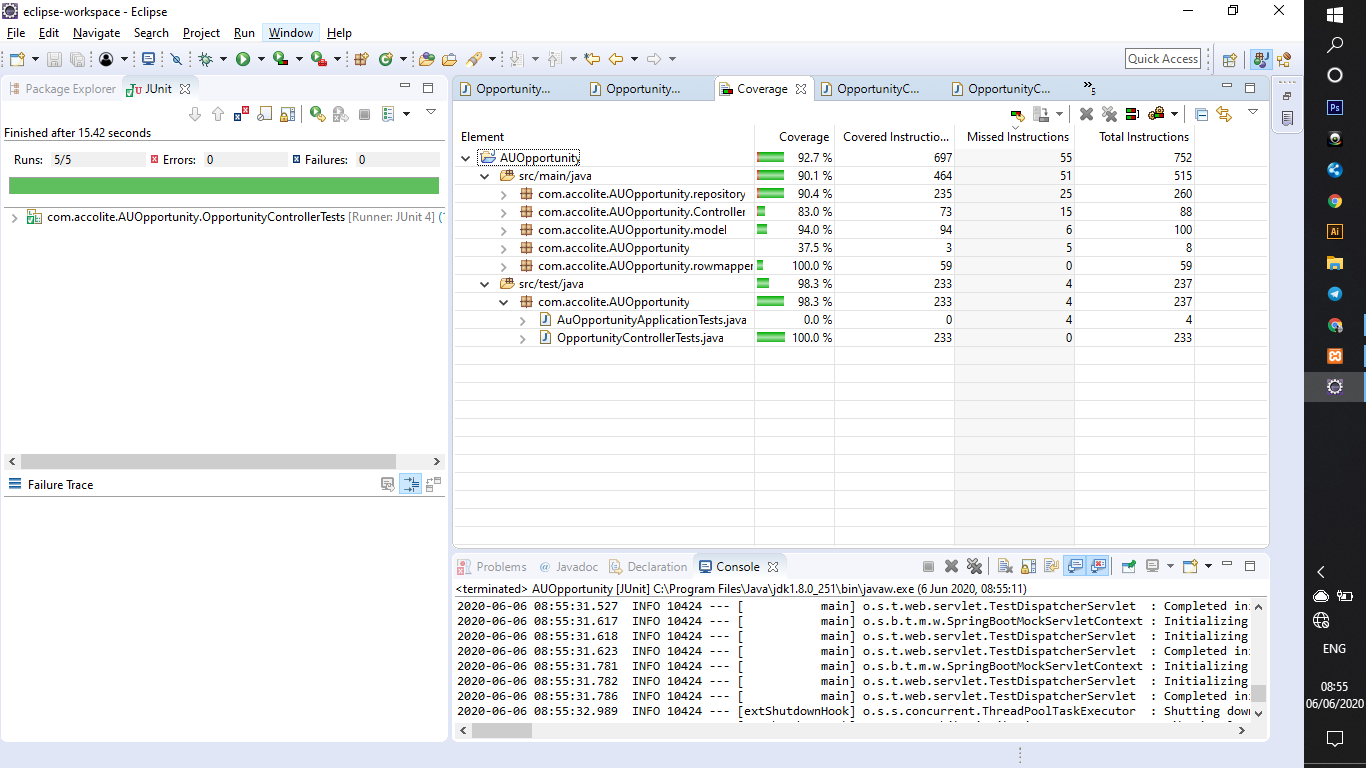
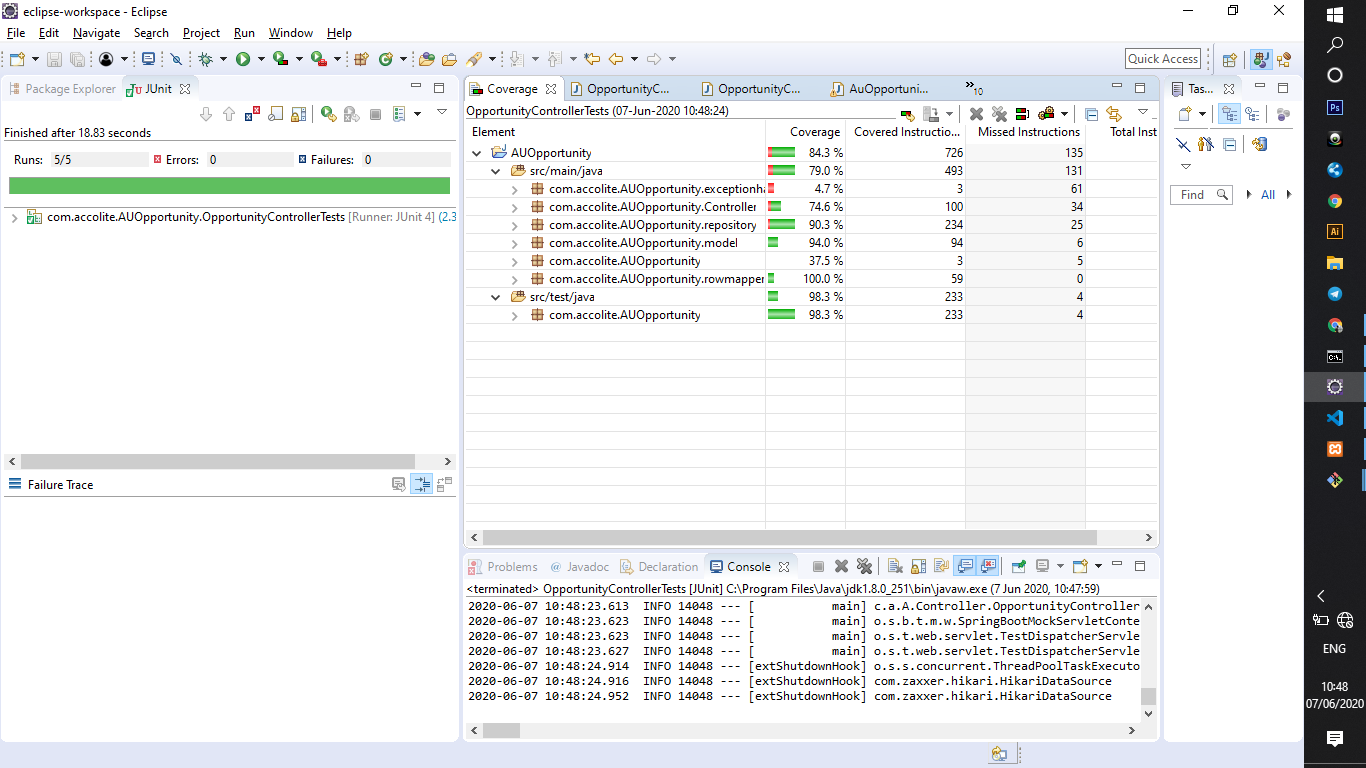
updated error handler  code coverage in angular

diff --git a/Springboot/AUOpportunity/src/main/java/com/accolite/AUOpportunity/Controller/OpportunityController.java b/Springboot/AUOpportunity/src/main/java/com/accolite/AUOpportunity/Controller/OpportunityController.java
@@ -3,7 +3,10 @@ package com.accolite.AUOpportunity.Controller;
 import java.sql.Timestamp;
 import java.util.List;
 
+
+
 import org.springframework.beans.factory.annotation.Autowired;
+import org.springframework.dao.EmptyResultDataAccessException;
 import org.springframework.web.bind.annotation.CrossOrigin;
 import org.springframework.web.bind.annotation.DeleteMapping;
 import org.springframework.web.bind.annotation.GetMapping;
@@ -14,74 +17,111 @@ import org.springframework.web.bind.annotation.RequestBody;
 import org.springframework.web.bind.annotation.ResponseBody;
 import org.springframework.web.bind.annotation.RestController;
 
+import com.accolite.AUOpportunity.exceptionhandler.OpportunityNotFoundException;
+import com.accolite.AUOpportunity.exceptionhandler.OpportunityServiceErrorException;
 import com.accolite.AUOpportunity.model.Opportunity;
 import com.accolite.AUOpportunity.repository.OpportunityDao;
+import org.slf4j.Logger;
+import org.slf4j.LoggerFactory;
 
 
 
-
+@CrossOrigin("*")
 @RestController
 public class OpportunityController {
 	
+	private final Logger logger = LoggerFactory.getLogger(this.getClass());
+	
+
 	@Autowired
     public OpportunityDao dao; 
 	
-	@CrossOrigin("*")
+	
 	@GetMapping("/getoppurtunities")
     public List<Opportunity> customerInformation() {
-	
+		 logger.info("Getting Opportunity details");
         List<Opportunity> opportunities = dao.getopportunities(); 
        
         return opportunities;
     }
 	
 	
-	@CrossOrigin("*")
+	
 	@GetMapping("/getopportunityid/{oid}")
 	@ResponseBody
     public Opportunity getid(@PathVariable int oid){
-        return dao.getid(oid);
+		Opportunity getbyid; 
+		try {
+			
+		getbyid = dao.getid(oid);
+		}
+		catch(EmptyResultDataAccessException e)
+		{
+			throw new OpportunityServiceErrorException();
+		}
+		
+		return getbyid;
+	
+		
+		
+		
     }
 	
-	@CrossOrigin("*")
+	
 	@GetMapping("/adduser/{firstname}/{lastname}/{email}")
     @ResponseBody
     public String addUser(@PathVariable String firstname,@PathVariable String lastname,@PathVariable String email ){
-       
-        	dao.adduser(firstname,lastname,email,new Timestamp(System.currentTimeMillis()));
+		    logger.info("Adding User details");
+        	
+		    dao.adduser(firstname,lastname,email,new Timestamp(System.currentTimeMillis()));
             return "User Added Successfully";
 
     }
 
 	
-	@CrossOrigin("*")
+	
 	@PutMapping("/updatebyid")
 	@ResponseBody
 	 public String updateopportunity(@RequestBody Opportunity op){
-        dao.update(op.oid,op.description,op.location,op.skills,op.openingcount,op.projectduration,op.lastdate,op.experience,op.managername,op.manageremail);
+		if(dao.update(op.oid,op.description,op.location,op.skills,op.openingcount,op.projectduration,op.lastdate,op.experience,op.managername,op.manageremail)<1)
+		{
+			throw new OpportunityNotFoundException();
+		}
+		else {
+			logger.info("Updating Opportunity details");
         return "Opportunity redefined Successfully";
+		}
     }
 	
 	
 	
-	@CrossOrigin("*")
+	
 	@PostMapping("/addopp")
     @ResponseBody
     public String addopportunity(@RequestBody Opportunity opp){
-        dao.add(opp.oid,opp.description,opp.location,opp.skills,opp.openingcount,opp.projectduration,opp.lastdate,opp.experience,opp.managername,opp.manageremail);
-        return "Opportunity created Successfully";
+		
+		if( dao.add(opp.oid,opp.description,opp.location,opp.skills,opp.openingcount,opp.projectduration,opp.lastdate,opp.experience,opp.managername,opp.manageremail)<1)
+		{
+			throw new OpportunityNotFoundException();
+		}
+		else {
+			logger.info("Adding Opportunity details");
+			 return "Opportunity created Successfully";	
+		}
+       
     }
 	
 	
 	
-	@CrossOrigin("*")
+
 	@DeleteMapping("/deleteopportunity/{oid}")
     @ResponseBody
     public String deleteopportunity(@PathVariable int oid){
-        if(dao.delete(oid) >= 1){
-            return "Opportunity Deleted Successfully";
+        if(dao.delete(oid)< 1){
+        	throw new OpportunityNotFoundException();
         }else{
-            return "Something went wrong !";
+        	logger.info("Deleting Opportunity details");
+        	return "Opportunity Deleted Successfully";
         }
     }
 	 

diff --git a/Springboot/AUOpportunity/src/test/java/com/accolite/AUOpportunity/OpportunityControllerTests.java b/Springboot/AUOpportunity/src/test/java/com/accolite/AUOpportunity/OpportunityControllerTests.java
@@ -50,8 +50,8 @@ public class OpportunityControllerTests {
 		       mockMvc.perform(get("/getopportunityid/1").contentType(MediaType.APPLICATION_JSON)).andExpect(status().isOk())
 				.andExpect(jsonPath("$.oid").value("1")).andExpect(jsonPath("$.description").value("SoftwareEngineer"))
 				.andExpect(jsonPath("$.location").value("Chennai")).andExpect(jsonPath("$.skills").value("MongoDB"))
-				.andExpect(jsonPath("$.openingcount").value(15)).andExpect(jsonPath("$.projectduration").value(33))
-				.andExpect(jsonPath("$.lastdate").value("13-03-2019")).andExpect(jsonPath("$.experience").value("2 years"))
+				.andExpect(jsonPath("$.openingcount").value(15)).andExpect(jsonPath("$.projectduration").value(19))
+				.andExpect(jsonPath("$.lastdate").value("13-03-2019")).andExpect(jsonPath("$.experience").value("3 years"))
 				.andExpect(jsonPath("$.managername").value("vishnu")).andExpect(jsonPath("$.manageremail").value("paul@gmail.com"));
 				
 				
@@ -64,7 +64,7 @@ public class OpportunityControllerTests {
 	{
 		
 		Opportunity opp = new Opportunity();
-		opp.setOid(105);
+		opp.setOid(17);
 		opp.setDescription("AppDeveloper");
 		opp.setLocation("chennai");
 		opp.setSkills("Java");
@@ -89,7 +89,7 @@ public class OpportunityControllerTests {
 	
 	@Test
 	public void testdeleteOpportunity() throws Exception {
-	       mockMvc.perform(delete("/deleteopportunity/104").contentType(MediaType.APPLICATION_JSON)).andExpect(status().isOk());
+	       mockMvc.perform(delete("/deleteopportunity/450").contentType(MediaType.APPLICATION_JSON)).andExpect(status().isOk());
 			
 }
 	
@@ -127,7 +127,7 @@ public class OpportunityControllerTests {
 	public void getAllOpportunityTest()
 	{
 		
-	    assertEquals(6,opc.customerInformation().size());
+	    assertEquals(7,opc.customerInformation().size());
 	}
 	
 	

diff --git a/Springboot/AUOpportunity/src/main/java/com/accolite/AUOpportunity/exceptionhandler/OpportunityExceptionController.java b/Springboot/AUOpportunity/src/main/java/com/accolite/AUOpportunity/exceptionhandler/OpportunityExceptionController.java
@@ -1,0 +1,24 @@
+package com.accolite.AUOpportunity.exceptionhandler;
+
+
+import java.util.Date;
+
+import org.springframework.http.HttpStatus;
+import org.springframework.http.ResponseEntity;
+import org.springframework.web.bind.annotation.ControllerAdvice;
+import org.springframework.web.bind.annotation.ExceptionHandler;
+import org.springframework.web.context.request.WebRequest;
+
+@ControllerAdvice
+public class OpportunityExceptionController {
+	@ExceptionHandler(value = OpportunityNotFoundException.class)
+	public ResponseEntity<?> exception(OpportunityNotFoundException ex, WebRequest request) {
+		 ErrorLogging errornotfound = new ErrorLogging(new Date(),"Opportunity Id not found", request.getDescription(false));
+	      return new ResponseEntity<ErrorLogging>(errornotfound, HttpStatus.NOT_FOUND);
+	   }
+	@ExceptionHandler(value = OpportunityServiceErrorException.class)
+	public ResponseEntity<?> exception(OpportunityServiceErrorException ex, WebRequest request) {
+		 ErrorLogging servererror = new ErrorLogging(new Date(), "Server Error due to Empty Data Access", request.getDescription(false));
+	      return new ResponseEntity<ErrorLogging>(servererror,  HttpStatus.INTERNAL_SERVER_ERROR);
+	   }
+}

diff --git a/Springboot/AUOpportunity/src/main/java/com/accolite/AUOpportunity/repository/OpportunityDao.java b/Springboot/AUOpportunity/src/main/java/com/accolite/AUOpportunity/repository/OpportunityDao.java
@@ -57,14 +57,15 @@ public class OpportunityDao {
 	      String SQL = "select * from opportunity where oid = ?";
 	      Opportunity user = jdbcTemplate.queryForObject(
 	         SQL, new Object[]{id}, new OpportunityRowMapper());
-	      
 	      return user;
+	     
+	      
 	   }
 	 
 	
-	public void update(int oid, String description, String location, String skills, int openingcount,int projectduration,String lastdate, String experience, String managername, String manageremail){
+	public int update(int oid, String description, String location, String skills, int openingcount,int projectduration,String lastdate, String experience, String managername, String manageremail){
 	      String SQL = "update opportunity set description = ?, location=?, skills=?, openingcount=?, projectduration=?, lastdate=?, experience=?, managername=?, manageremail=? where oid = ?";
-	      jdbcTemplate.update(SQL,description,location,skills,openingcount,projectduration,lastdate,experience,managername,manageremail, oid);
+	      return jdbcTemplate.update(SQL,description,location,skills,openingcount,projectduration,lastdate,experience,managername,manageremail, oid);
 	      
 	   }
 	

diff --git a/Springboot/AUOpportunity/src/main/java/com/accolite/AUOpportunity/AuOpportunityApplication.java b/Springboot/AUOpportunity/src/main/java/com/accolite/AUOpportunity/AuOpportunityApplication.java
@@ -1,7 +1,11 @@
 package com.accolite.AUOpportunity;
 
+import org.springframework.beans.factory.annotation.Value;
 import org.springframework.boot.SpringApplication;
 import org.springframework.boot.autoconfigure.SpringBootApplication;
+import org.springframework.context.annotation.Bean;
+import org.springframework.web.servlet.config.annotation.CorsRegistry;
+import org.springframework.web.servlet.config.annotation.WebMvcConfigurer;
 
 @SpringBootApplication
 
@@ -10,5 +14,17 @@ public class AuOpportunityApplication {
 	public static void main(String[] args) {
 		SpringApplication.run(AuOpportunityApplication.class, args);
 	}
-
+	
+	/*@Value("${app.allowed-origins}")
+    private String[] allowedOrigins;
+    
+    @Bean
+	public WebMvcConfigurer corsConfigurer() {
+		return new WebMvcConfigurer() {
+			public void addCorsMappings(CorsRegistry registry) {
+				registry.addMapping("/**").allowedOrigins(allowedOrigins);
+			}
+		};
+	}
+*/
 }

diff --git a/Springboot/AUOpportunity/src/main/java/com/accolite/AUOpportunity/exceptionhandler/ErrorLogging.java b/Springboot/AUOpportunity/src/main/java/com/accolite/AUOpportunity/exceptionhandler/ErrorLogging.java
@@ -1,0 +1,31 @@
+package com.accolite.AUOpportunity.exceptionhandler;
+
+import java.util.Date;
+
+public class ErrorLogging {
+	private Date timestamp;
+    private String message;
+    private String details;
+
+    public ErrorLogging(Date timestamp, String message, String details) {
+        super();
+        this.timestamp = timestamp;
+        this.message = message;
+        this.details = details;
+    }
+
+    public Date getTimestamp() {
+        return timestamp;
+    }
+
+    public String getMessage() {
+        return message;
+    }
+
+    public String getDetails() {
+        return details;
+    }
+   
+}
+
+

diff --git a/Springboot/AUOpportunity/src/main/java/com/accolite/AUOpportunity/exceptionhandler/OpportunityServiceErrorException.java b/Springboot/AUOpportunity/src/main/java/com/accolite/AUOpportunity/exceptionhandler/OpportunityServiceErrorException.java
@@ -1,0 +1,9 @@
+package com.accolite.AUOpportunity.exceptionhandler;
+
+import org.springframework.http.HttpStatus;
+import org.springframework.web.bind.annotation.ResponseStatus;
+@ResponseStatus(value = HttpStatus.INTERNAL_SERVER_ERROR)
+public class OpportunityServiceErrorException extends RuntimeException {
+	private static final long serialVersionUID = 1L;
+
+}

diff --git a/Springboot/AUOpportunity/src/main/java/com/accolite/AUOpportunity/exceptionhandler/OpportunityNotFoundException.java b/Springboot/AUOpportunity/src/main/java/com/accolite/AUOpportunity/exceptionhandler/OpportunityNotFoundException.java
@@ -1,0 +1,10 @@
+package com.accolite.AUOpportunity.exceptionhandler;
+
+import org.springframework.http.HttpStatus;
+import org.springframework.web.bind.annotation.ResponseStatus;
+@ResponseStatus(value = HttpStatus.NOT_FOUND)
+public class OpportunityNotFoundException extends RuntimeException {
+	private static final long serialVersionUID = 1L;
+
+}
+	
